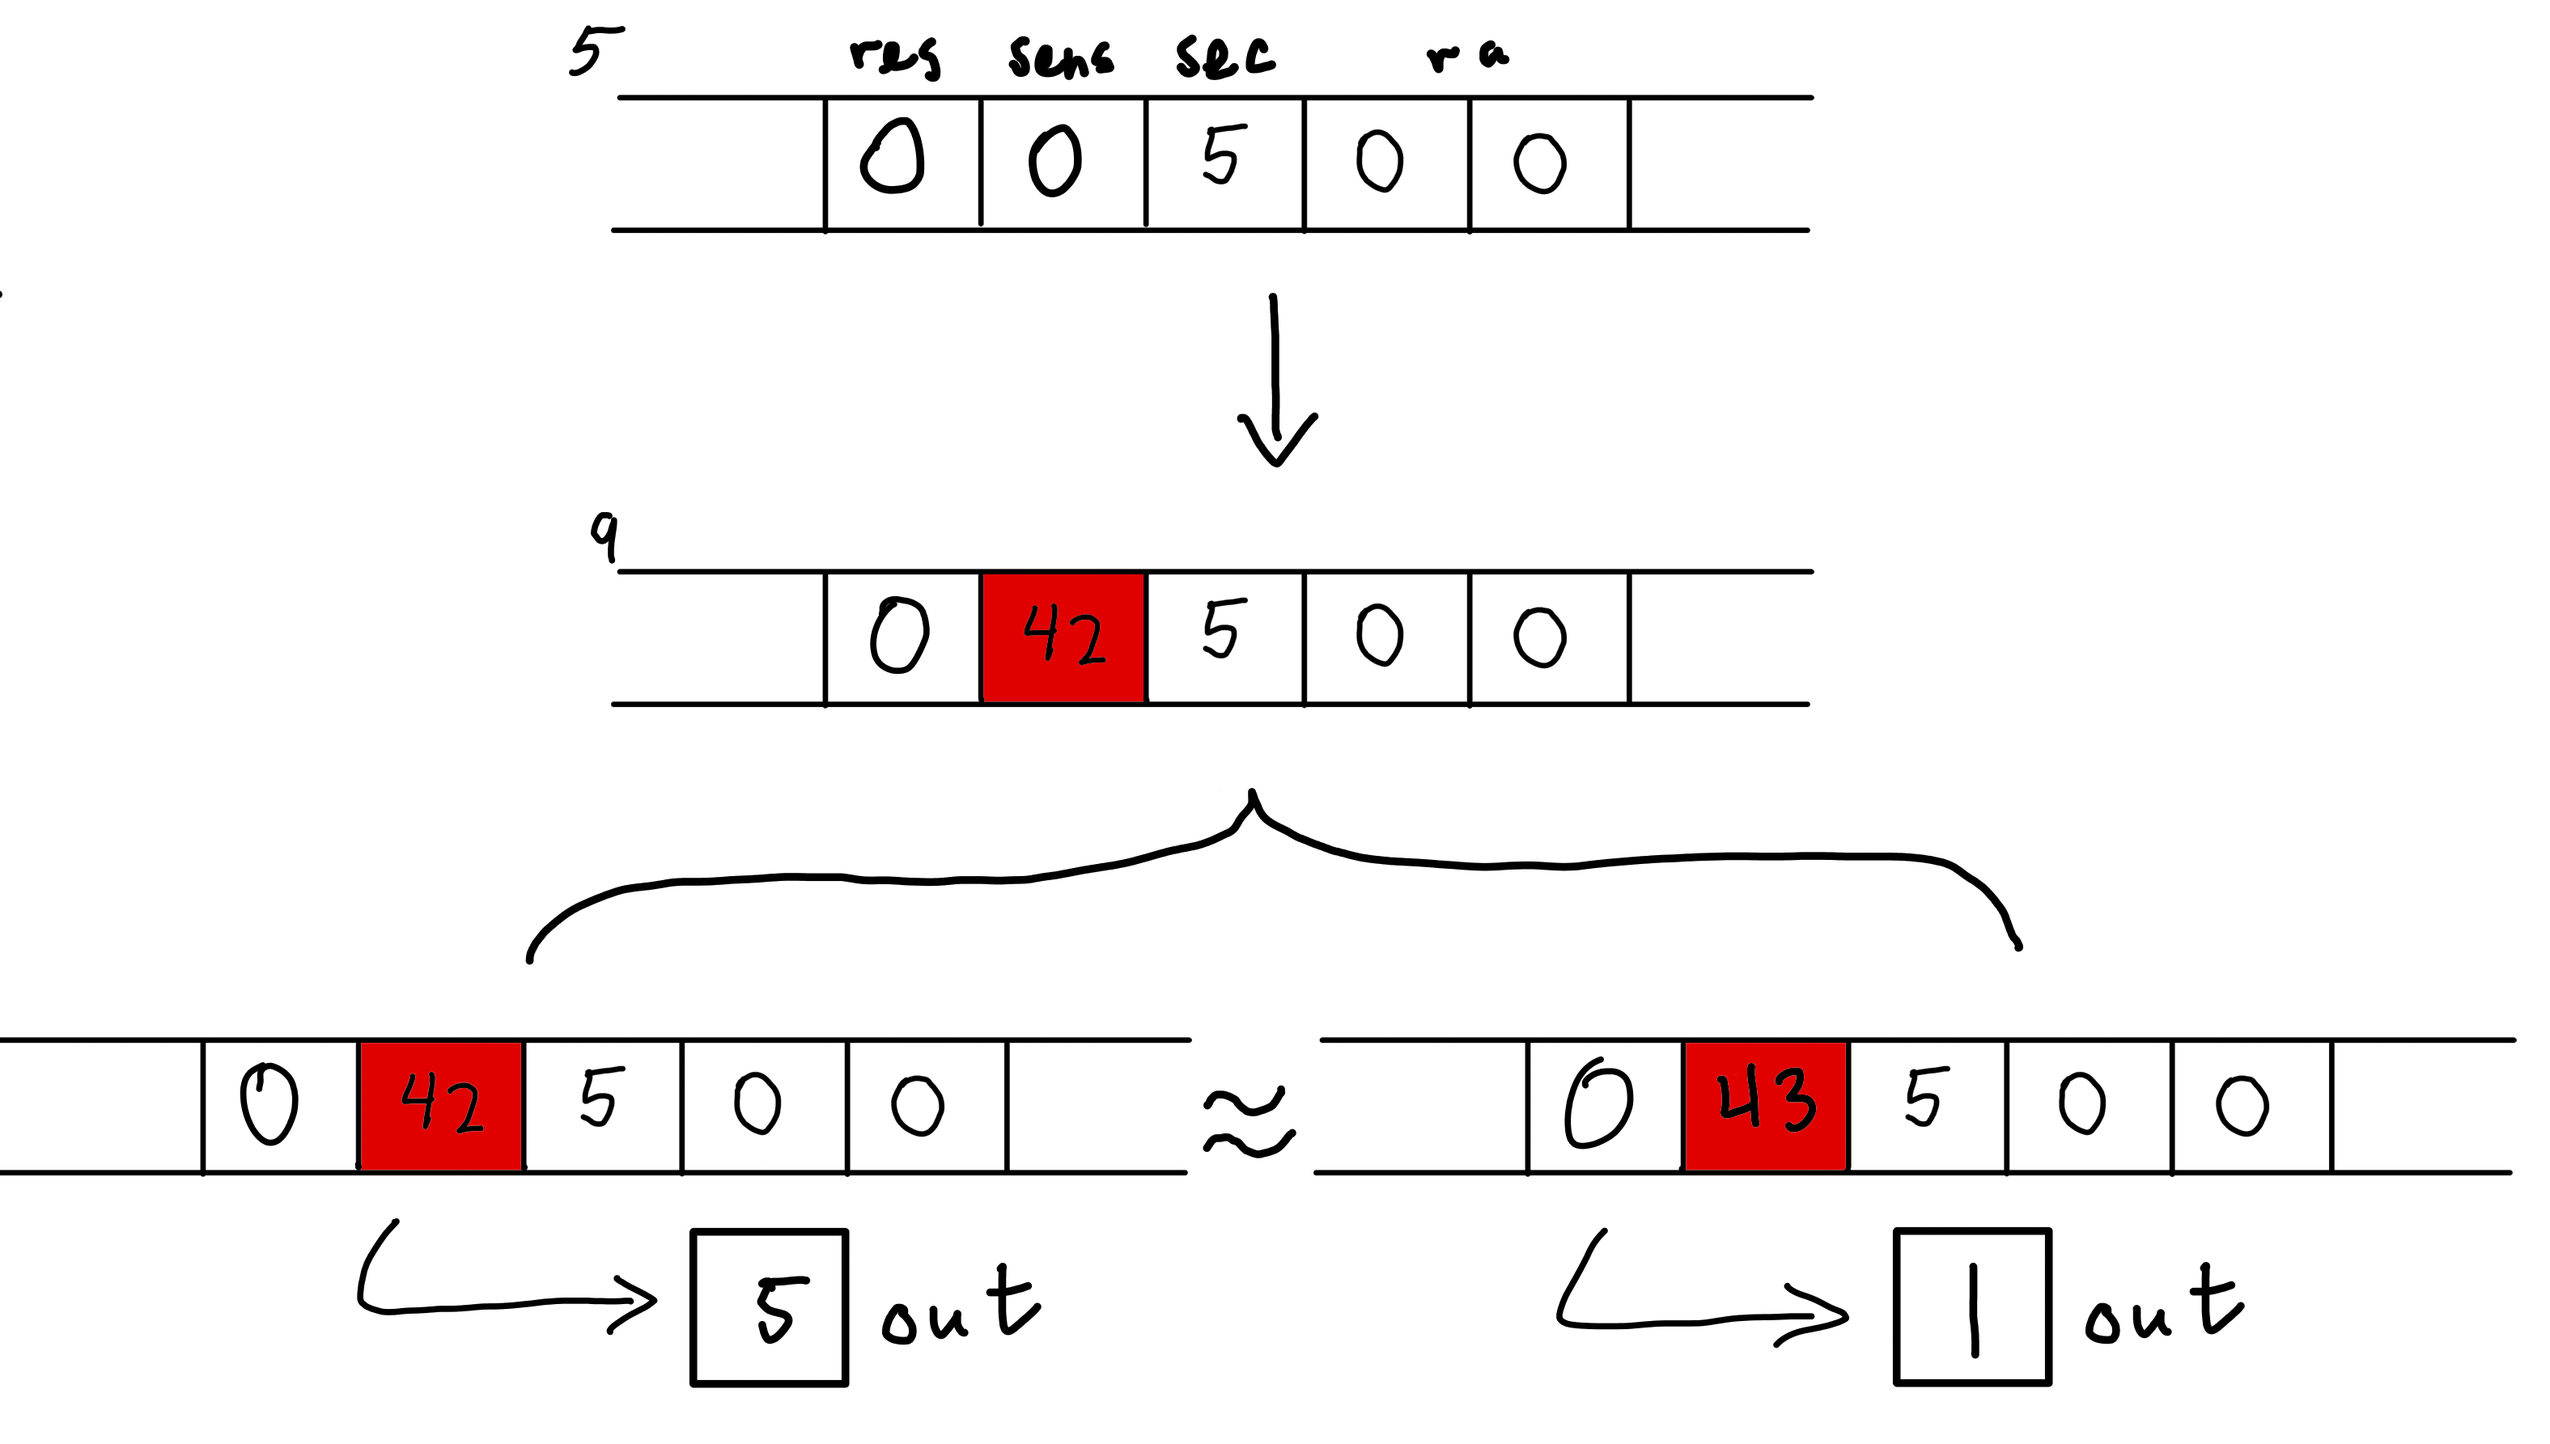
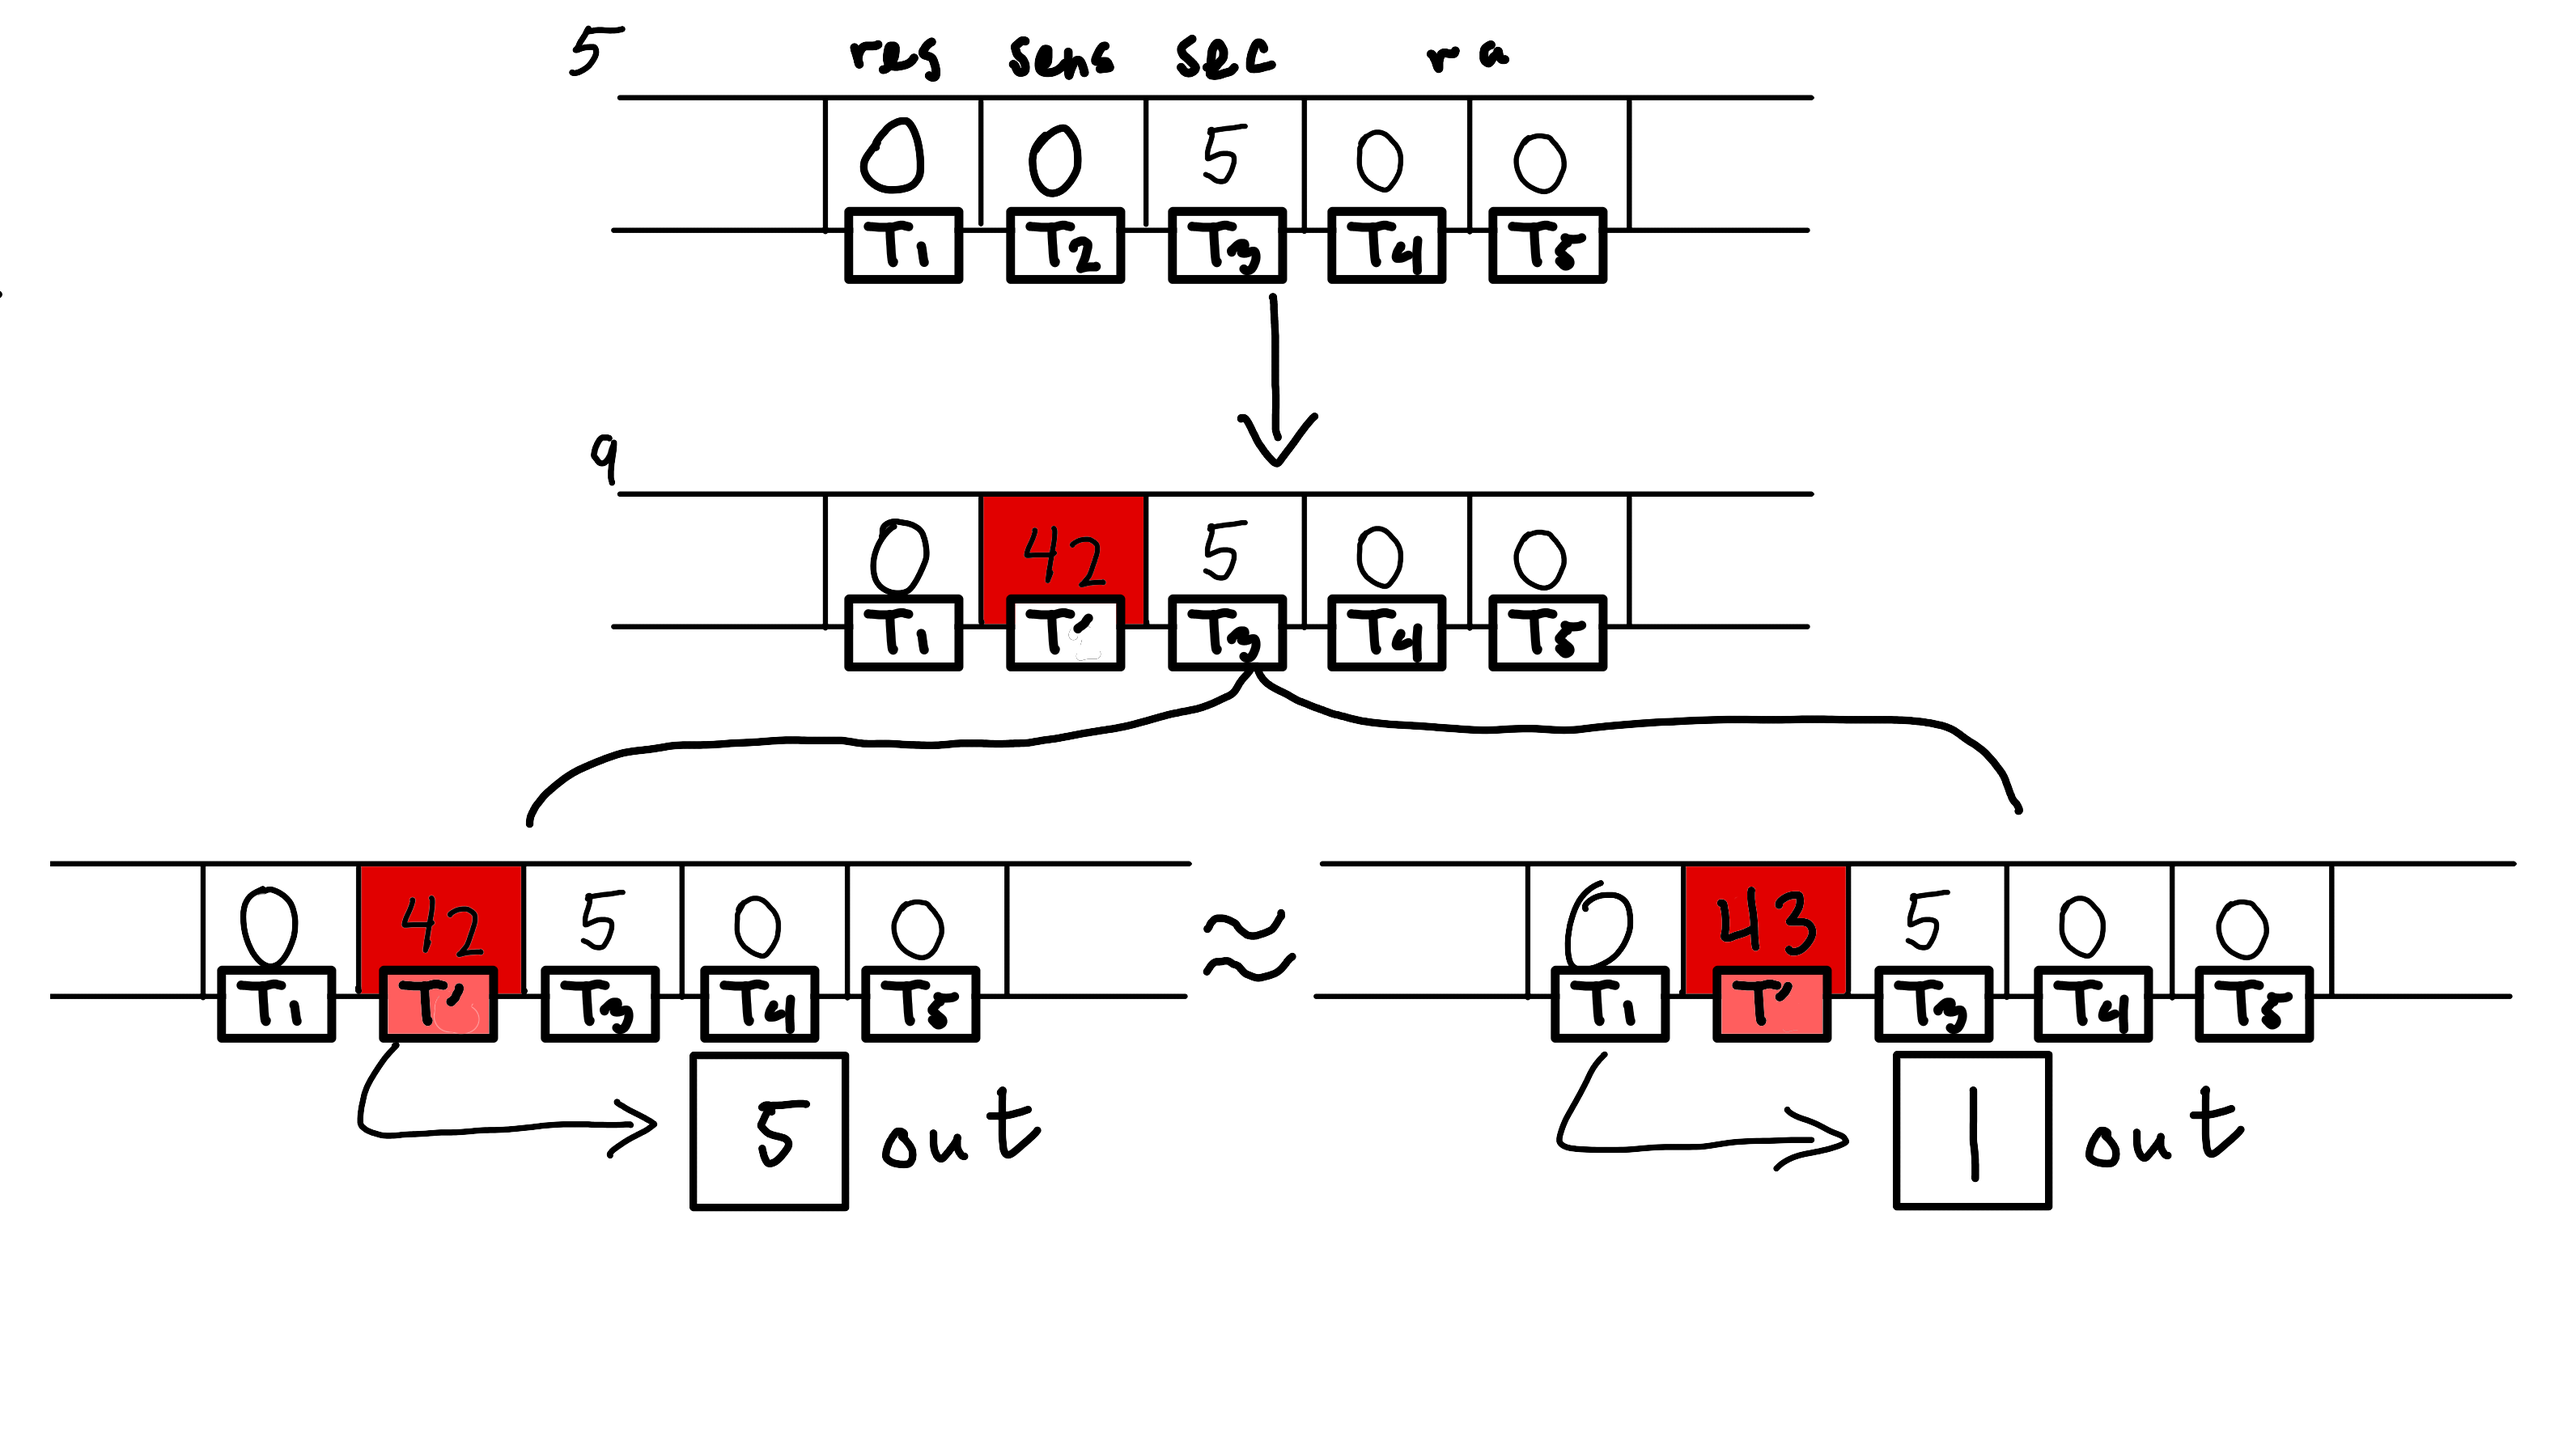
Fixed tag text size

diff --git a/submission5/noexceptions.tex b/submission5/noexceptions.tex
@@ -9,6 +9,8 @@
 
 \usepackage{xcolor,listings}
 
+\usepackage{tikz}
+
 \usepackage{array,multirow}
 
 \usepackage{stmaryrd}
@@ -322,7 +324,9 @@ modelled (see ~\ref{??}).
 
 Our concurrency model is fairly
 simplistic, assuming a fixed number of threads each with its own dedicated processor.
-\apt{Is concurrency still alive?}
+\sna{There is no concurrency in this document. Attempting to build it in from the beginning
+  was rather complicated. The question is where to put that extra complexity? It's not difficult
+  from a technical standpoint, subject to the one-thread-per-processor constraint.}
 We model memory-safe stack objects, but not a heap. Regions outside of
 stacks can be used however the compiler likes, including as a heap, but no protection is
 built in and our properties assume that if a pointer to a stack object is stored there,
@@ -599,10 +603,10 @@ effect of marking those bytes \(\object\), assuming they were previously
 \(\unsealed\). (We use \(V\llbracket\cdot\rrbracket\) to denote updates to \(V\).)
 %
 
-\newcommand{\freebox}{\includegraphics[height=10px]{free.png}}
-\newcommand{\pubbox}{\includegraphics[height=10px]{public.png}}
-\newcommand{\objbox}{\includegraphics[height=10px]{object.png}}
-\newcommand{\sealbox}{\includegraphics[height=10px]{sealed.png}}
+\newcommand{\freebox}{\tikz \filldraw[fill=blue] (0,0) rectangle (10px,10px);}
+\newcommand{\pubbox}{\tikz \filldraw[fill=lightgray] (0,0) rectangle (10px,10px);}
+\newcommand{\objbox}{\tikz \filldraw[fill=yellow] (0,0) rectangle (10px,10px);}
+\newcommand{\sealbox}{\tikz \filldraw[fill=red] (0,0) rectangle (10px,10px);}
 
 \begin{figure*}
   \begin{tabular}{|r|r||l|r}
@@ -793,17 +797,16 @@ given a particular model of observation, we can consider
 corruption by {\tt f} acceptable as long as it does not affect {\tt main}'s observable behavior.
 
 To characterize this situation in a property, we define a state element to be \emph{irrelevant}
-if its value can be replaced with any other value without changing the observable behavior
-of the machine. More precisely, for a set of elements \(\components\),
-a pair of states \(\mach\) and \(\nach\) are {\em \(\components\)-variants} if they
-agree on the value of every element not in \(\components\).
-In the tagged environment, we additionally require that the values of
-\emph{all} elements in \(\mach\) and \(\nach\) agree on their tags. 
-\apt{Right?  This does not generalize so nicely, since we have not defined the
-  non-payload part of values, but it will do ok here, I think.}
+if its value can be replaced with another value without changing the observable behavior
+of the machine. This replacement value must respect any enforcement-relevant constraints on
+values; in the tagged setting, we define two values as variants if they share the same tag
+component. Then, for a set of elements \(\components\),
+a pair of states \(\mach\) and \(\nach\) are {\em \(\components\)-variants} if
+they agree on the value of every element not in \(\components\), and the values
+in all elements are variants.
 
 The elements of \(\components\) are \emph{irrelevant}
-in \(\mach\) if every variant state produces an equivalent observation trace
+in \(\mach\) if every \(\components\)-variant state produces an equivalent observation trace
 (see Section \ref{sec:events}); all other elements are \emph{relevant}.
 We characterize \emph{observational integrity} as the property that
 every relevant element that is \(\sealed\) under the callee's view is restored
@@ -811,7 +814,7 @@ to its original value at the return point.
 
 \begin{figure}
   \includegraphics[width=\columnwidth]{variants.png}
-  \caption{Integrity Violation\apt{Tags are too small to read (also in next figures)}}
+  \caption{Integrity Violation}
   \label{fig:variant}
 \end{figure}
 
@@ -869,22 +872,21 @@ To illustrate the issues, note that {\tt f} has also stores a 0 below the stack 
   \label{fig:variant3}
 \end{figure}
 %
-Now consider three elements: the address \(\SP - 4\) (blue), the address \(\SP + 12\) (yellow),
-and the register {\tt a0} (red). In the first case, the execution from the variant state
-has changed the value at \(\SP - 4\). But both return states agree on that value. Therefore,
-while the address was updated, it does not depend on a secret value.
+Now consider three elements: the address \(\SP - 4\), the address \(\SP + 12\),
+and the register {\tt a0}. The execution from the right-hand state to its return
+has changed the value at \(\SP - 4\), but that value matches that of the
+left-hand return. Therefore, the change does not represent a leak.
 
-In the second case, the return states disagree on the value of \(\SP + 12\). But in neither
+The return states disagree on the value of \(\SP + 12\). But in neither
 case has that value changed since the original variants. So the difference is inherited from
-the original variation, and does not depend on a secret value either. This matters because,
-following the return, the caller is allowed to access its stack frame, so those addresses
-may legitmately influence future execution.
+the original variation, and does not represent a leak either. We do not continue executing the
+variant state after return, so these values will not cause the caller to behave differently.
 
 But in the case of {\tt a0}, the value has changed during the call (in both the original
 and the variant, although only one of these would be necessary), and its final value
 differs between the variants.
 Therefore, it must depend on a secret (in fact, the variable {\tt secret}).
-Unless {\tt a0} happens to be irrelevant in the original trace, this is a violation of what
+Unless {\tt a0} happens to be irrelevant, this is a violation of what
 we term {\it return-time confidentiality}.
 
 Structurally, return-time confidentiality resembles integrity, but now dealing with
@@ -1047,15 +1049,18 @@ is the same. That is, we compare up to deletion of \(\tau\) events.
 
 \paragraph*{Variants and Irrelevant Values}
 
+For a given system, assume an equivalence class \(\sim\) on values.
 Two states are variants with respect to a set of elements, \(\components\),
-if they agree on the value of every element not in \(\components\). Our
-notion of non-interference involves comparing the traces of such
-\(\components\)-variants. We use this to define sets of irrelevant elements.
+if they agree on the value of every element not in \(\components\) and
+all of their values are equivalent under \(\sim\).
+Our notion of non-interference involves comparing the traces of such
+\(\components\)-variants. We use this to define sets of irrelevant elements,
+and secrets in general.
 
 \definition Machine states \(\mach\) and \(\nach\) are {\em \(\components\)-variants},
 written \(\mach \approx_\components \nach\), if, for
-all \(\component \not \in \components\), \(\mach[\component] = \nach[\component]\).
-\apt{Needs revision to discuss payloads/tags.}
+all \(\component \not \in \components\), \(\mach[\component] = \nach[\component]\)
+and for all \(\component\), \(\mach[\component] \sim \nach[\component]\).
 
 \definition An element set \(\components\) in state \((\mach,\context)\) contains
 irrelevant values, written \((\mach,\context) \parallel \components\), if for all
